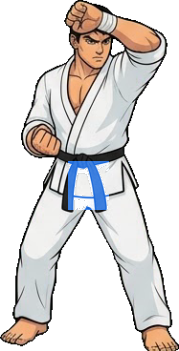
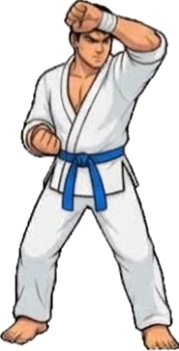
Recolorear cinturón Aka/Ao de las 20 posturas de Combate vía Gemini
Sustituye el recoloreado por píxeles (rechazado por el usuario en las
técnicas de ataque, y superado en calidad por Gemini también en las
guardias) por arte regenerado por Gemini a partir de los sprites
originales, recortado y con el fondo blanco convertido a transparencia
mediante flood-fill desde los bordes (evita el halo que dejaba un simple
umbral de blancura). Cubre las 11 posturas de guardia y las 9 técnicas de
ataque real usadas en Modo Combate.

diff --git a/index.html b/index.html
@@ -373,7 +373,7 @@ if('serviceWorker' in navigator){
       </select>
     </div>
   </div>
-    <div class="app-ver">v11</div>
+    <div class="app-ver">v13</div>
     </div>
 
   </main>
@@ -1151,7 +1151,8 @@ function cActorColor(side){ return side===C.akaSide ? 'aka' : 'ao'; }
    (assets/<pose>_red.png / _blue.png, mismas dimensiones que el original
    -- kLayout calcula la posicion con el nombre normal y aqui solo se
    cambia el archivo pintado). */
-var C_BELT_POSES = ['guard_base','guard_closed','guard_chest','guard_flank','guard_temple','guard_low','block_side','block_high','block_cross','block_low','cover'];
+var C_BELT_POSES = ['guard_base','guard_closed','guard_chest','guard_flank','guard_temple','guard_low','block_side','block_high','block_cross','block_low','cover',
+  'atk_jab','atk_cross','atk_combo','kick_front','kick_mid','kick_high','knee','kick_low','sweep_low'];
 function cBeltColor(){ return C.akaSide==='rival' ? 'red' : 'blue'; }
 function cShowPose(name, tech, mirror){
   kLayout(name, tech, mirror);
@@ -1189,7 +1190,7 @@ function cBeginAttack(){
   K.tech = { s:name, hx:K_HITS[name][0], hy:K_HITS[name][1], name:K_NAMES[name], sc:(K_SC[name]||1), winBonus:(K_WINBONUS[name]||0) };
   C.pending = K.tech;
   C.mirror = Math.random()<0.5;
-  kLayout(K.tech.s, K.tech, C.mirror);
+  cShowPose(K.tech.s, K.tech, C.mirror);
   kRing.className='k-ring on';
   kSetStatus('¡Ataca!','go');
   C.t0=performance.now();

diff --git a/sw.js b/sw.js
@@ -1,5 +1,5 @@
 /* RDS Plantilla - Service Worker */
-var CACHE = 'reactionkarate-v11';
+var CACHE = 'reactionkarate-v13';
 var ASSETS = [
   './',
   './index.html',
